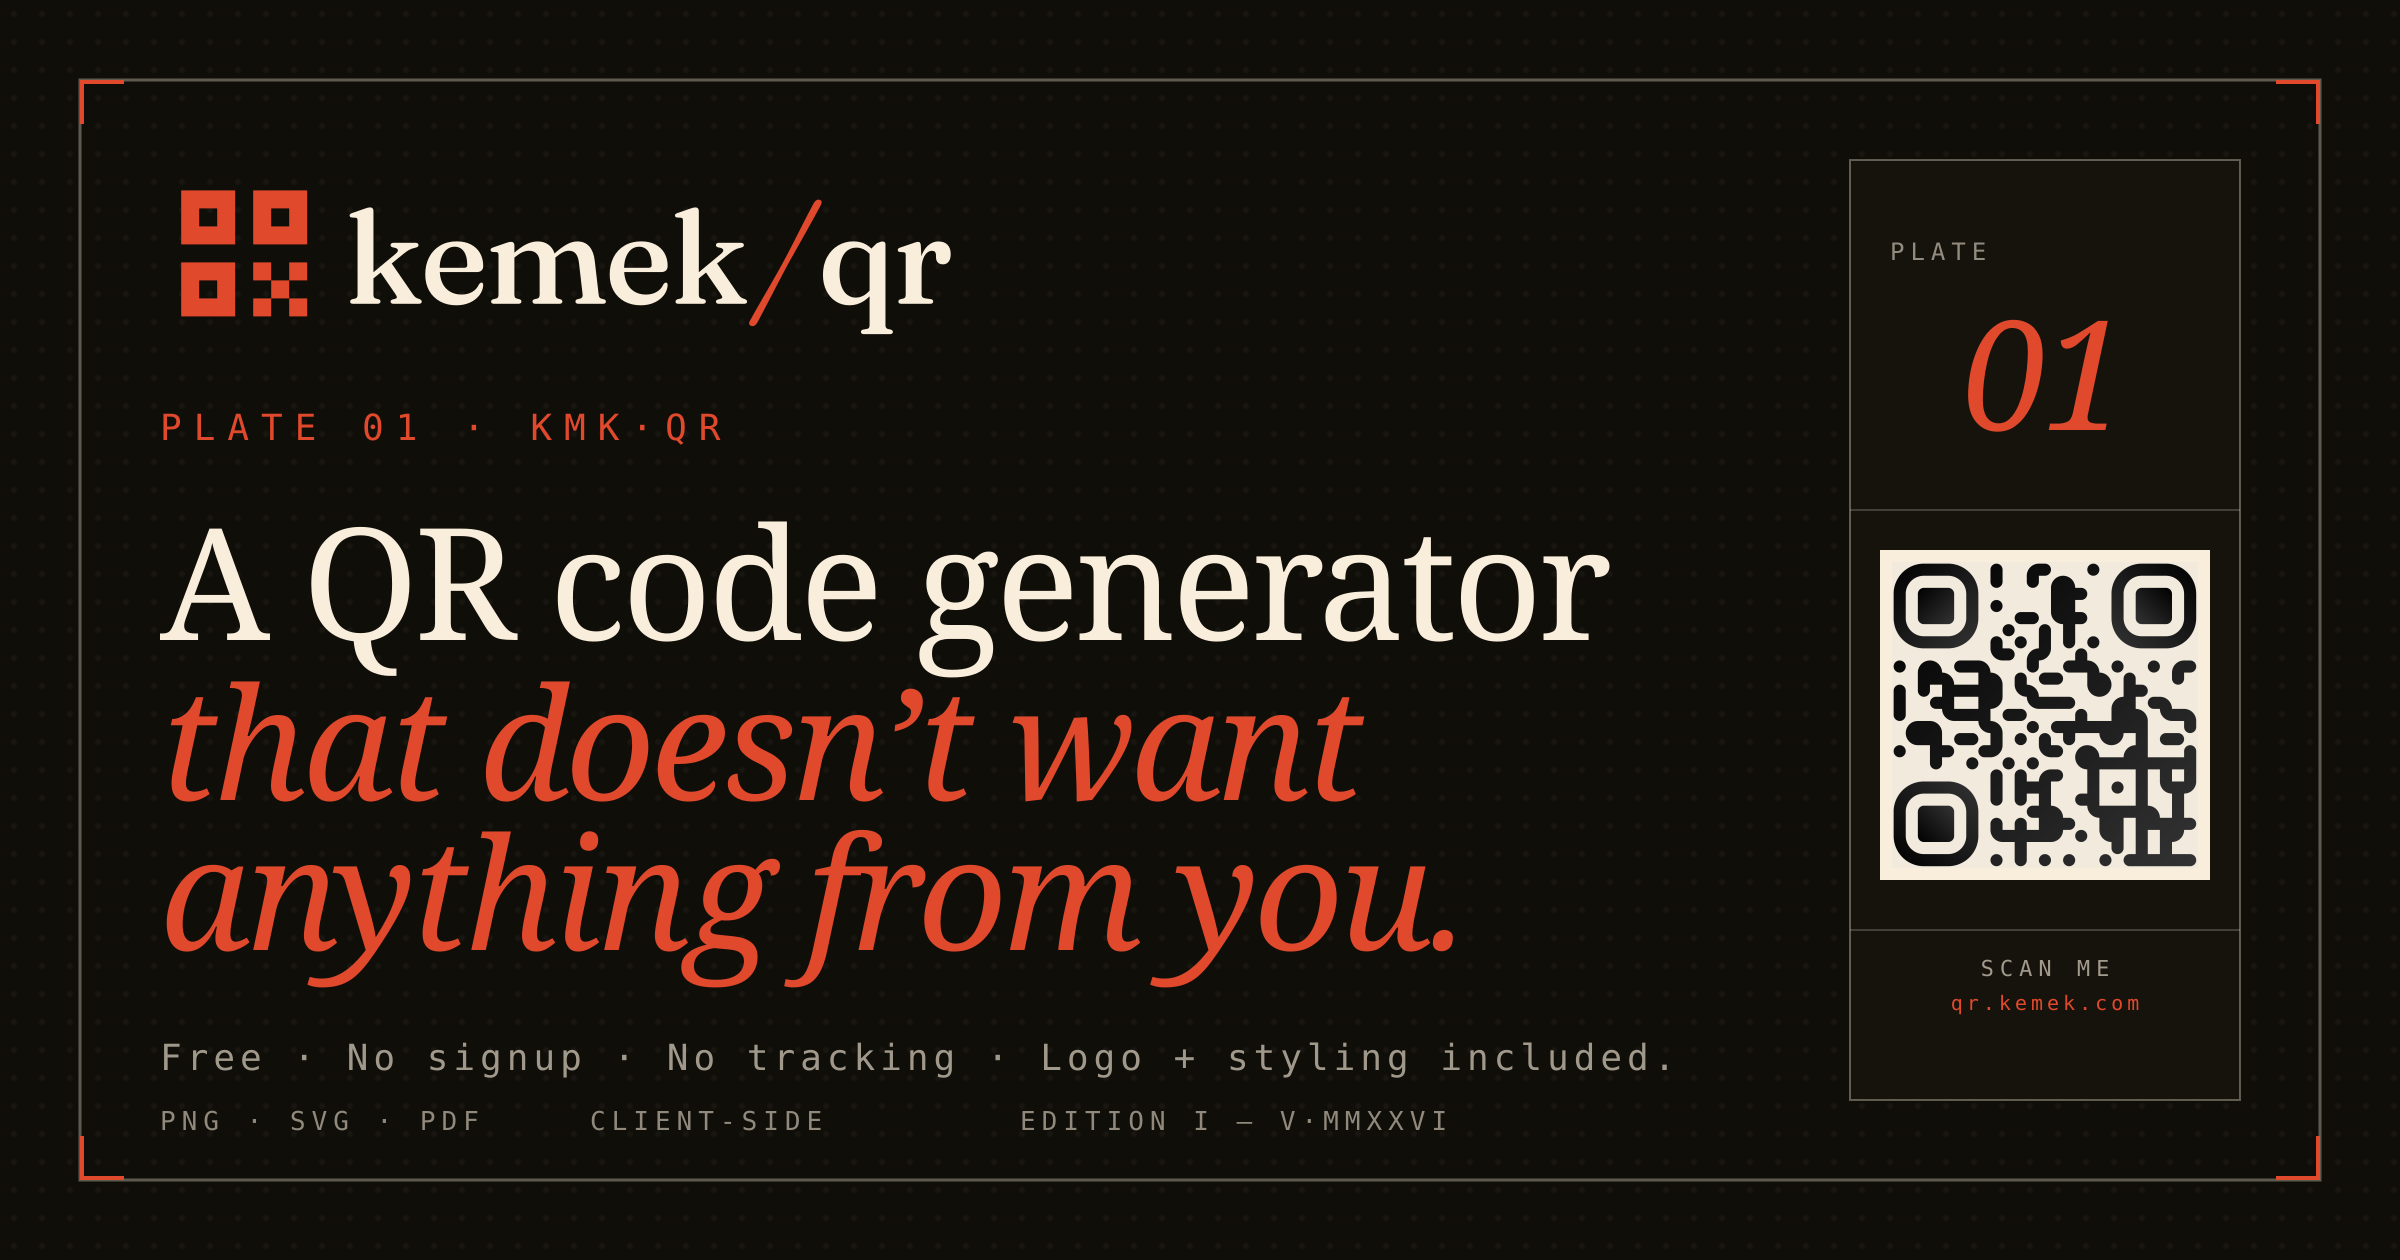
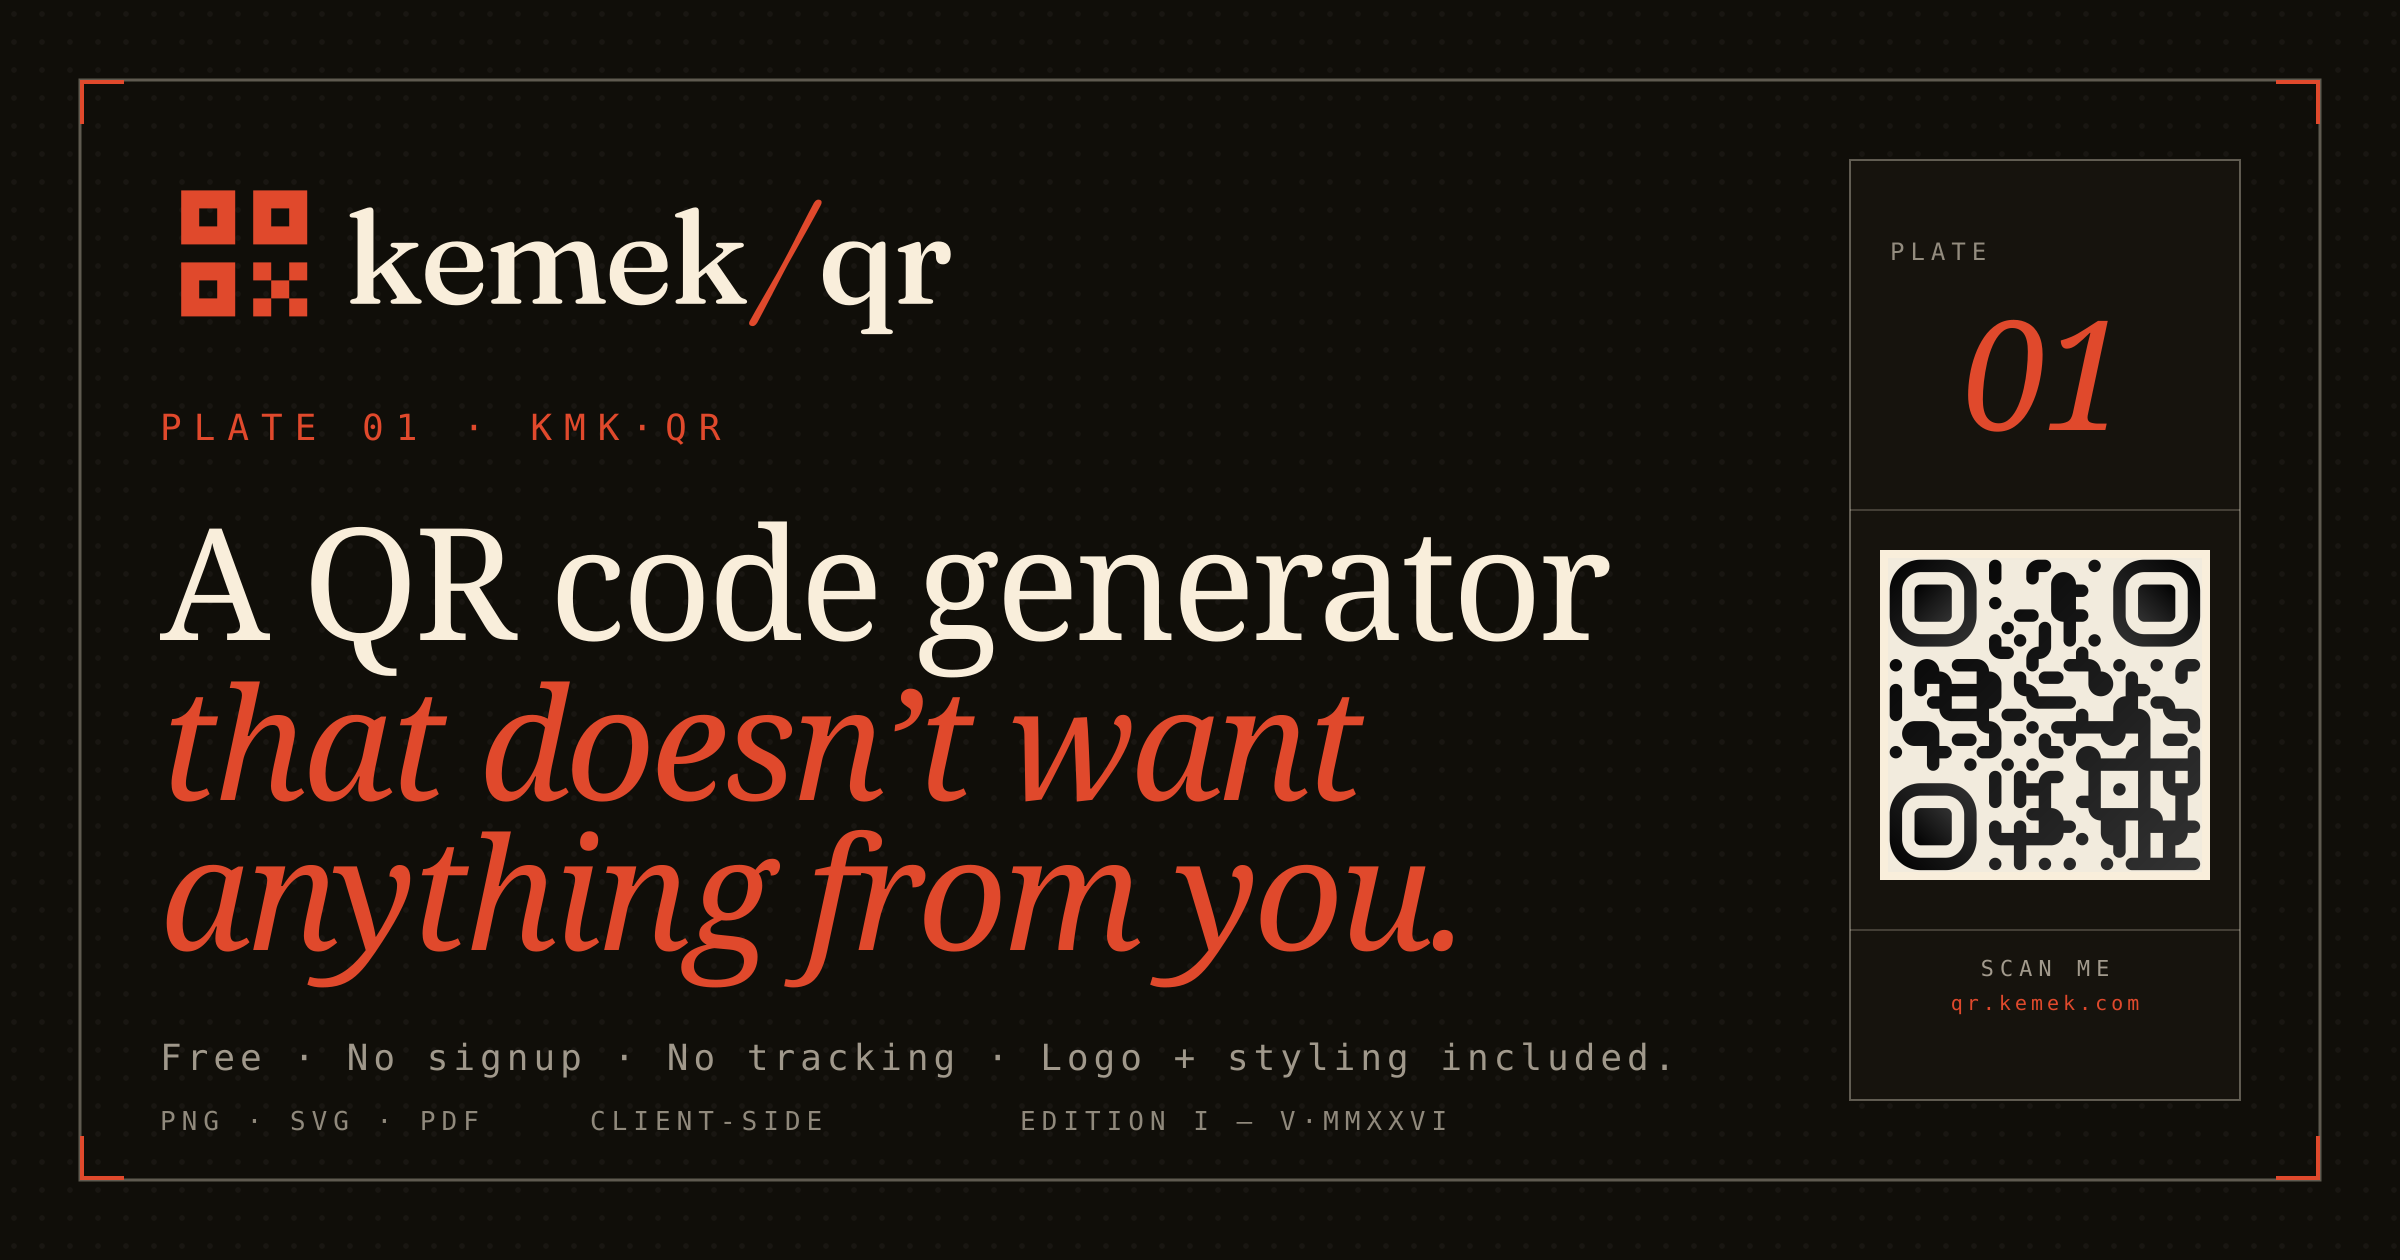
fix: proportional QR margins + about mobile portrait + long-form copy
- Generator.svelte: replace fixed margin:6 with qrMargin(size) = round(size * 0.05) on the QR options + every download override (PNG 1024/2048/4096, SVG 1024, PDF 2048). All downloads now carry ~1-2 modules of quiet zone regardless of output resolution; the old 6px-of-canvas margin was nearly invisible at 2048/4096.
- ExplainerSection.svelte: raise the white-space:normal breakpoint from 380px to 720px. The §05 'Error correction & scan reliability' title forced horizontal scroll on every phone- and tablet-portrait viewport between 381-720px because of the nowrap default.
- build-images.mjs: drop OG QR inset 6 → 4 (split the diff from the previous over-padded version).
- Long-form copy everywhere: 'QR generator' → 'QR code generator' across landing-copy plateLabels (URL/Text/WiFi/vCard/Email/SMS/Phone/Geo), /about hero h1, /about meta description, and the PlateIndex CSS comment. Matches what the product is and aligns OG/page/index labels.

Changed region(s): [[0.7812, 0.4333, 0.9375, 0.7119]]

diff --git a/src/lib/landing-copy.ts b/src/lib/landing-copy.ts
@@ -39,7 +39,7 @@ export const LANDING_COPY: Record<ContentType, LandingCopy> = {
 			'Generate QR codes for any URL. Free, no signup, no tracking. Customize colors, dot styles, and logo. Download PNG, SVG, or PDF straight from your browser.',
 		path: '/',
 		shortLabel: 'URL',
-		plateLabel: 'URL QR generator',
+		plateLabel: 'URL QR code generator',
 		paragraphs: [
 			'Paste a link, get a scannable QR code. The encoder runs entirely in your browser, so the URL you type never reaches our servers — there is no server to reach. The same is true for any logo you embed: it is read with FileReader and composited locally.',
 			'A QR code that points at a URL is a static QR. It will work for as long as the destination URL itself works. There is no shortener in the middle, no analytics pixel, no expiring redirect. If you change your domain later, the old code stops resolving — that is the trade-off for not needing an account.',
@@ -69,7 +69,7 @@ export const LANDING_COPY: Record<ContentType, LandingCopy> = {
 			'Generate QR codes for plain text. Free, no signup. Useful for notes, codes, instructions, anything that does not need to open in a browser.',
 		path: '/text',
 		shortLabel: 'TEXT',
-		plateLabel: 'Text QR generator',
+		plateLabel: 'Text QR code generator',
 		paragraphs: [
 			'A text QR code does not point anywhere. The scanner shows the decoded string and stops there. That is useful when the goal is to deliver information directly — a serial number, a poem, a one-time access code, a printed message — rather than open a website.',
 			'Most modern phone cameras will offer to copy the decoded text. Some will offer to "search" it, which usually means a generic web search. There is no auto-redirect because there is nowhere to redirect to.',
@@ -99,7 +99,7 @@ export const LANDING_COPY: Record<ContentType, LandingCopy> = {
 			'Make a WiFi QR code that joins your network with one scan. Supports WPA/WPA2/WPA3, WEP, open. No signup, no tracking. Credentials stay in your browser.',
 		path: '/wifi',
 		shortLabel: 'WIFI',
-		plateLabel: 'WiFi QR generator',
+		plateLabel: 'WiFi QR code generator',
 		paragraphs: [
 			'A WiFi QR code carries the SSID, password, security type, and a hidden-network flag in a standard format that iOS and Android camera apps both recognize. When scanned, the phone offers to join the network — no typing required. This is the same format printed on the side of many home routers.',
 			'The format is plain text — anyone who scans the QR can read the password by feeding the decoded string to a parser. That is fine for a guest WiFi sticker by your front door, less fine for a corporate network. Treat the printed QR like the printed password.',
@@ -129,7 +129,7 @@ export const LANDING_COPY: Record<ContentType, LandingCopy> = {
 			'Make a vCard QR for your contact info. Scans into iPhone and Android contacts. Free, no signup, no tracking. Generated entirely in your browser.',
 		path: '/vcard',
 		shortLabel: 'VCARD',
-		plateLabel: 'vCard QR generator',
+		plateLabel: 'vCard QR code generator',
 		paragraphs: [
 			'A vCard QR carries a contact card in the same format your phone uses to share a contact via AirDrop or Nearby Share. When scanned, the recipient is offered an "Add to Contacts" sheet pre-filled with the fields you set. It is the modern equivalent of a paper business card, except it survives the wallet.',
 			'We emit vCard 3.0 because it has the widest scanner support across iPhone, Android, and the long tail of QR-reading apps. Newer versions (4.0) are slightly more compact but break in older readers. The trade-off is not worth it for a contact card.',
@@ -159,7 +159,7 @@ export const LANDING_COPY: Record<ContentType, LandingCopy> = {
 			'Generate a QR code that opens an email draft when scanned. Pre-fill subject and body. Free, no signup, no tracking. Encoded in your browser.',
 		path: '/email',
 		shortLabel: 'EMAIL',
-		plateLabel: 'Email QR generator',
+		plateLabel: 'Email QR code generator',
 		paragraphs: [
 			'An email QR encodes a mailto: URL — the same format you would use in an HTML link. When scanned, the phone opens the user’s default mail app with the To, Subject, and Body fields pre-filled. The user can edit before sending; nothing is sent automatically.',
 			'Subject and body are URL-encoded so spaces, ampersands, and line breaks survive the round-trip. There is no length limit imposed by the QR format itself — the practical limit is whatever the scanner’s URL parser tolerates, which is comfortably in the thousands of characters.',
@@ -185,7 +185,7 @@ export const LANDING_COPY: Record<ContentType, LandingCopy> = {
 			'QR codes that open a pre-filled SMS draft when scanned. Free, no signup, no tracking. Generated entirely in your browser.',
 		path: '/sms',
 		shortLabel: 'SMS',
-		plateLabel: 'SMS QR generator',
+		plateLabel: 'SMS QR code generator',
 		paragraphs: [
 			'An SMS QR encodes the recipient number and a message body. We use the SMSTO: format, which has the broadest stock-app compatibility — better than the official sms: scheme, which some Android stock messaging apps still mishandle.',
 			'Common uses include "Text JOIN to opt in" replacements, support shortcuts ("Scan to text our help desk"), and event check-ins where a typed message is awkward. As with the email QR, scanning opens a draft — the user has to send.',
@@ -211,7 +211,7 @@ export const LANDING_COPY: Record<ContentType, LandingCopy> = {
 			'Generate QR codes that dial a phone number when scanned. Free, no signup, no tracking. Encoded in your browser.',
 		path: '/phone',
 		shortLabel: 'PHONE',
-		plateLabel: 'Phone QR generator',
+		plateLabel: 'Phone QR code generator',
 		paragraphs: [
 			'A phone QR encodes a tel: URL — the same format used by clickable phone numbers in HTML. Scanning offers a "Call <number>" prompt. The user has to confirm; phones do not silently dial from a QR.',
 			'Include the country code (+1 for the US, +44 for the UK, etc.) so the QR works regardless of where it is scanned. A national-format number works locally but fails when a traveler scans it.',
@@ -237,7 +237,7 @@ export const LANDING_COPY: Record<ContentType, LandingCopy> = {
 			'QR codes that open a map pin when scanned. Latitude / longitude with optional label. Free, no signup, no tracking. Generated entirely in your browser.',
 		path: '/geo',
 		shortLabel: 'GEO',
-		plateLabel: 'Geo location QR generator',
+		plateLabel: 'Geo location QR code generator',
 		paragraphs: [
 			'A geo QR uses the geo: URL scheme defined by RFC 5870. Scanning opens whatever maps app is the user’s default — Apple Maps on iOS, Google Maps or Waze on Android, Organic Maps if they have set that as default. The pin lands at the lat/lon you specify.',
 			'The optional label is encoded as a `q=` parameter, a Google-Maps convention that most modern map apps honor. Older or stricter readers ignore the label and just drop a pin at the coordinates — that fallback is fine.',

diff --git a/src/lib/Generator.svelte b/src/lib/Generator.svelte
@@ -86,6 +86,19 @@
 	let qrInstance: InstanceType<typeof QRCodeStyling> | null = null;
 	let QRCodeStylingClass: typeof QRCodeStyling | null = null;
 
+	/* Quiet-zone margin as a fraction of the QR canvas. qr-code-styling
+	 * takes `margin` in absolute pixels, so a fixed value (e.g. 6) gets
+	 * proportionally smaller at every larger export size — at 2048 px a
+	 * 6 px margin is nearly invisible and the modules crowd the edges.
+	 * Express margin as a ratio and derive the absolute value per
+	 * canvas size: ~5 % gives roughly one to two modules of quiet zone
+	 * across all formats (preview at 480, PNG 1024 / 2048 / 4096, SVG
+	 * 1024, PDF 2048). The QR spec recommends 4 modules; this is below
+	 * spec but reads cleaner at brand-asset scale where the surrounding
+	 * UI / page provides additional optical quiet zone. */
+	const QR_MARGIN_RATIO = 0.05;
+	const qrMargin = (size: number) => Math.round(size * QR_MARGIN_RATIO);
+
 	/* qr-code-styling expresses linear gradients as a rotation in radians
 	 * around the center; we expose degrees in the UI for ergonomics. */
 	function buildGradient() {
@@ -113,7 +126,7 @@
 			// so an empty input renders a valid placeholder QR rather than crashing.
 			data: encoded.trim() || 'https://kemek.com',
 			image: logoDataUrl ?? undefined,
-			margin: 6,
+			margin: qrMargin(480),
 			qrOptions: { errorCorrectionLevel: ecc },
 			dotsOptions: { color: fgColor, type: dotType, gradient },
 			backgroundOptions: { color: bgColor },
@@ -497,6 +510,7 @@
 			...buildOpts(),
 			width: exportSize,
 			height: exportSize,
+			margin: qrMargin(exportSize),
 			type: 'canvas'
 		});
 		if (frameEnabled) {
@@ -547,6 +561,7 @@
 			...buildOpts(),
 			width: exportSize,
 			height: exportSize,
+			margin: qrMargin(exportSize),
 			type: 'svg'
 		});
 		const blob = (await exporter.getRawData('svg')) as Blob | null;
@@ -572,6 +587,7 @@
 			...buildOpts(),
 			width: exportSize,
 			height: exportSize,
+			margin: qrMargin(exportSize),
 			type: 'canvas'
 		});
 		const qrBlob = (await exporter.getRawData('png')) as Blob | null;

diff --git a/src/routes/about/+page.svelte b/src/routes/about/+page.svelte
@@ -6,7 +6,7 @@
 	const canonicalUrl = `${SITE}/about`;
 	const title = 'About kemek/qr — privacy posture, scope, license | KeMeK';
 	const description =
-		'How kemek/qr is built and why. A free, fully client-side QR generator from KeMeK Network — no signup, no upload, MIT-licensed source.';
+		'How kemek/qr is built and why. A free, fully client-side QR code generator from KeMeK Network — no signup, no upload, MIT-licensed source.';
 
 	const jsonLd = {
 		'@context': 'https://schema.org',
@@ -62,7 +62,7 @@
 
 		<div class="title-block-body">
 			<span class="title-rubric">COLOPHON · ABOUT THIS SPECIFICATION</span>
-			<h1 class="hero-title">A QR generator that doesn’t want anything from you.</h1>
+			<h1 class="hero-title">A QR code generator that doesn’t want anything from you.</h1>
 			<p class="hero-sub">
 				kemek/qr is a free utility from KeMeK Network. It runs entirely in your browser — no upload,
 				no account, no expiry, no tracking. This page explains exactly what that means and where the

diff --git a/src/lib/ExplainerSection.svelte b/src/lib/ExplainerSection.svelte
@@ -37,13 +37,16 @@
 		text-transform: uppercase;
 		color: var(--ghost);
 		margin: 0;
-		/* Keep titles like "Notes on the artifact" / "Footnotes &
-		 * queries" on one line at common viewports so the dashed rule
-		 * fills remaining width. At very narrow widths (≤380 px) the
-		 * title would force horizontal scroll, so let it wrap. */
+		/* Keep titles on one line at desktop widths so the dashed rule
+		 * fills remaining space. Below ~720 px the longer section
+		 * titles ("Error correction & scan reliability" is 35 chars
+		 * and ~378 px wide nowrap) force horizontal overflow on every
+		 * phone- and tablet-portrait viewport — release nowrap there
+		 * and let the title wrap naturally; the dashed rule still
+		 * fills the trailing space on the last wrapped line. */
 		white-space: nowrap;
 	}
-	@media (max-width: 380px) {
+	@media (max-width: 720px) {
 		.section-title {
 			white-space: normal;
 		}

diff --git a/src/lib/PlateIndex.svelte b/src/lib/PlateIndex.svelte
@@ -14,9 +14,10 @@
 		 * Same selectors, same DOM — just the size cascade. */
 		compact?: boolean;
 		/* h1 vs short label — the per-type landings use the full
-		 * `Free … QR code generator` h1; about uses the tighter
-		 * `… QR generator` (`plateLabel`) so eight rows of "Free …"
-		 * don't dominate the page. */
+		 * `Free … QR code generator` h1; about uses `plateLabel`
+		 * (`… QR code generator` without the leading `Free`) so the
+		 * eight rows don't all start with "Free …" and dominate the
+		 * page visually. */
 		labelKind?: 'h1' | 'plateLabel';
 	};
 
